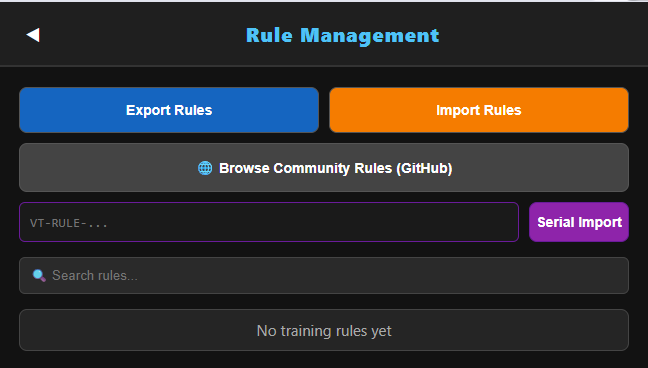
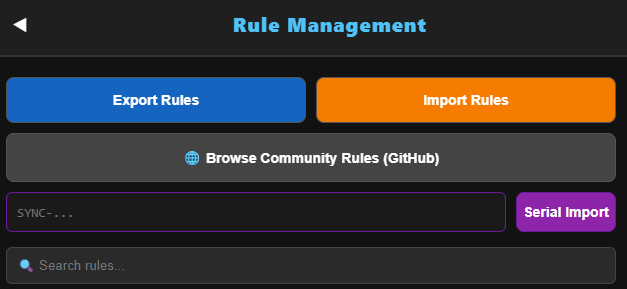
docs: update rule serial prefix from VT-RULE to SYNC across all documentation

diff --git a/docs/guide/adaptive-engine.md b/docs/guide/adaptive-engine.md
@@ -239,27 +239,26 @@ https://example.com/v/channel_abc123_hd
 :::
 
 ::: warning
-如果某個存槽已經有規則，覆寫前請確認你真的要替換它，因為目前沒有「還原」功能。建議先**到控制面板複製該規則的 VT-RULE 序號**備份，以防不時之需。
+如果某個存槽已經有規則，覆寫前請確認你真的要替換它，因為目前沒有「還原」功能。建議先**到控制面板複製該規則的 SYNC 序號**備份，以防不時之需。
 :::
 
 ---
 
-## 8. 規則序號分享（VT-RULE 格式）📋
+## 8. 規則序號分享（SYNC 格式）📋
 
 訓練完成後，每一條規則都有一個 **可分享的序號字串**，格式如下：
 
 ```
-VT-RULE-Z{deflate-raw base64 壓縮內容}
+SYNC-Z{deflate-raw base64 壓縮內容}
 ```
 
 例如：
 ```
-VT-RULE-ZeJyNjsEKwjAQRL...（後面接很長一串）
+SYNC-ZeJyNjsEKwjAQRL...（後面接很長一串）
 ```
 
-::: info VT-RULE-Z 格式說明
-- 前綴 `VT-RULE-Z` 表示這是使用 **deflate-raw + Base64** 壓縮的新格式
-- 相較於舊版純 JSON 格式，新格式的字串長度縮短約 **35%～50%**
+::: info SYNC-Z 格式說明
+- 前綴 `SYNC-Z` 表示這是使用 **deflate-raw + Base64** 壓縮的高效格式
 - 可以直接複製這串文字，貼給朋友，或貼到社群規則庫的 PR 中
 - 匯入時，在 V-Train 擴充功能的設定頁找到「匯入規則」功能，貼上序號即可
 :::
@@ -281,10 +280,10 @@ VT-RULE-ZeJyNjsEKwjAQRL...（後面接很長一串）
 
 > 🔗 **[https://github.com/vtrain-labs/community-rules](https://github.com/vtrain-labs/community-rules)**
 
-社群規則庫裡收錄了各種網站的 VT-RULE 序號，由社群用戶貢獻與維護。
+社群規則庫裡收錄了各種網站的 SYNC 序號，由社群用戶貢獻與維護。
 
 **你可以：**
-- 📥 **下載規則**：搜尋你想要支援的網站，複製 VT-RULE 序號匯入
+- 📥 **下載規則**：搜尋你想要支援的網站，複製 SYNC 序號匯入
 - 📤 **貢獻規則**：把你自己訓練好的規則序號提交 Pull Request 分享給大家
 - ⭐ **回報問題**：如果某個規則失效了（網站改版），可以開 Issue 告知維護者
 - 💬 **討論交流**：在 Discussions 區和其他用戶交流技巧

diff --git a/docs/en/guide/dashboard.md b/docs/en/guide/dashboard.md
@@ -174,13 +174,13 @@ Click a website name to **see more details**:
 - **Slot Dots**: There are 4 training slots (Mod 1 ~ Mod 4). A red dot ● means a rule is saved here. A gray dot ○ means it is empty.
 - **Rule Description**: Explains how the rule works (like "Last segment of URL path").
 - **Raw JSON**: Click to see the code data.
-- **VT-RULE Serial Number**: Every rule has a special serial number you can share.
+- **SYNC Serial Number**: Every rule has a special serial number you can share.
 
 > ![Rule Detail Card](/assets/manual/14.png)
 
 ### 📤 Share Rules (Copy Serial)
 
-Click the **orange "📋 Share" button** on a rule card. The full `VT-RULE-Z...` serial number will copy to your clipboard. You can paste it to share with friends!
+Click the **orange "📋 Share" button** on a rule card. The full `SYNC-Z...` serial number will copy to your clipboard. You can paste it to share with friends!
 
 ::: tip 💡 Full Serial Number
 The dashboard only shows part of the serial number to save space. If you **hover your mouse** over it, you will see the full number. The Share button always copies the full number.
@@ -197,7 +197,7 @@ If you delete a rule, you cannot get it back. Use "Share" to copy the serial num
 ### 📥 Import Rules
 
 **Method 1: Paste Serial Number**
-Find the serial input box. Paste the `VT-RULE-Z...` serial number. Click the "**Import**" button.
+Find the serial input box. Paste the `SYNC-Z...` serial number. Click the "**Import**" button.
 
 **Method 2: Import JSON File**
 Click the "**Import File**" button. Choose a `VTrain_Rules_XXXX-XX-XX.json` file. The system will add these rules.

diff --git a/README.md b/README.md
@@ -85,7 +85,7 @@
 
 ### 3. 社群規則庫 (Community Rules)
 不想自己慢慢訓練？歡迎前往官方的 [社群規則庫 (Community Rules)](https://github.com/vtrain-labs/community-rules)！
-你可以在這裡找到其他玩家分享的 `VT-RULE-xxxx` 規則序號，直接複製並到擴充功能內的「Serial Import」貼上，一秒鐘無痛支援各大影音網站！
+你可以在這裡找到其他玩家分享的 `SYNC-Zxxxx` 規則序號，直接複製並到擴充功能內的「Serial Import」貼上，一秒鐘無痛支援各大影音網站！
 
 ---
 

diff --git a/docs/guide/faq.md b/docs/guide/faq.md
@@ -154,12 +154,12 @@ V-Train 有內建**動態防盜鏈學習引擎**：
 
 ---
 
-### Q：我的朋友給了我一個 VT-RULE-Z... 序號，怎麼匯入？
+### Q：我的朋友給了我一個 SYNC-Z... 序號，怎麼匯入？
 
 1. 開啟控制面板
 2. 點擊 **「已訓練網站（已訓練網站(Trained Sites)）」** 按鈕
 3. 在規則管理頁面，找到「匯入規則序號」輸入框
-4. 貼上 `VT-RULE-Z...` 序號，點擊確認
+4. 貼上 `SYNC-Z...` 序號，點擊確認
 5. 匯入成功後，此規則立刻生效！
 
 ---

diff --git a/docs/guide/backup.md b/docs/guide/backup.md
@@ -139,7 +139,7 @@ V-Train 目前沒有自動雲端同步功能（為了絕對隱私）。如果您
 
 ::: info 規則分享更方便的方法
 如果只是想分享**訓練規則**給朋友，不需要完整備份！  
-直接去「控制面板」→「已訓練網站」，複製單個規則的 **VT-RULE-Z... 序號**給朋友就好，比傳 ZIP 更輕鬆！
+直接去「控制面板」→「已訓練網站」，複製單個規則的 **SYNC-Z... 序號**給朋友就好，比傳 ZIP 更輕鬆！
 :::
 
 ---

diff --git a/docs/en/guide/faq.md b/docs/en/guide/faq.md
@@ -151,12 +151,12 @@ If it still does not work, the website link might be difficult. Delete the rule 
 
 ---
 
-### Q: My friend gave me a VT-RULE serial number. How do I use it?
+### Q: My friend gave me a SYNC serial number. How do I use it?
 
 1. Open the Dashboard.
 2. Click the **"Trained Sites (Rules)"** button.
 3. Find the "Import Rule" box.
-4. Paste the `VT-RULE-Z...` number and click confirm.
+4. Paste the `SYNC-Z...` number and click confirm.
 5. The rule works immediately!
 
 ---

diff --git a/docs/en/guide/adaptive-engine.md b/docs/en/guide/adaptive-engine.md
@@ -227,12 +227,12 @@ If a slot already has a rule, saving will overwrite it. You cannot undo this. Yo
 
 ---
 
-## 8. Sharing Rules (VT-RULE) 📋
+## 8. Sharing Rules (SYNC) 📋
 
 Every rule has a **serial number**. It looks like this:
 
 ```
-VT-RULE-Z... (followed by a long string)
+SYNC-Z... (followed by a long string)
 ```
 
 You can copy this text and share it with friends!
